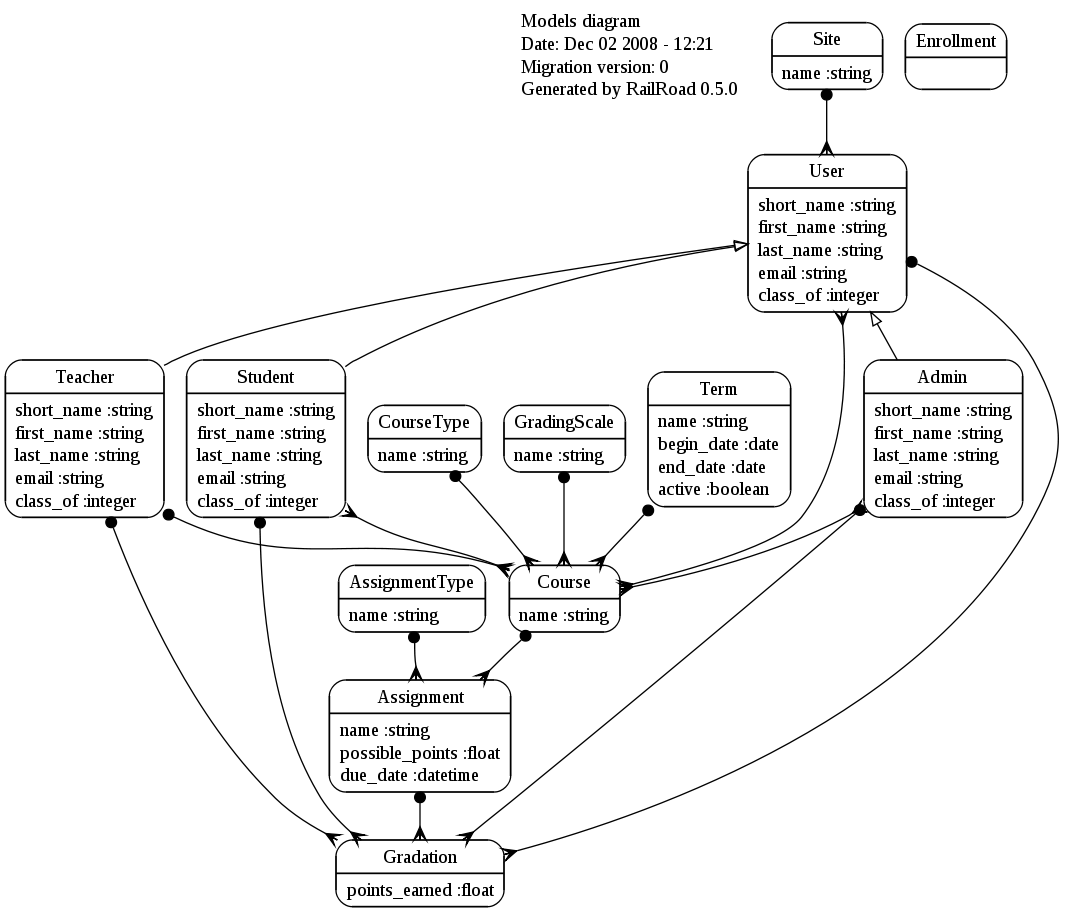
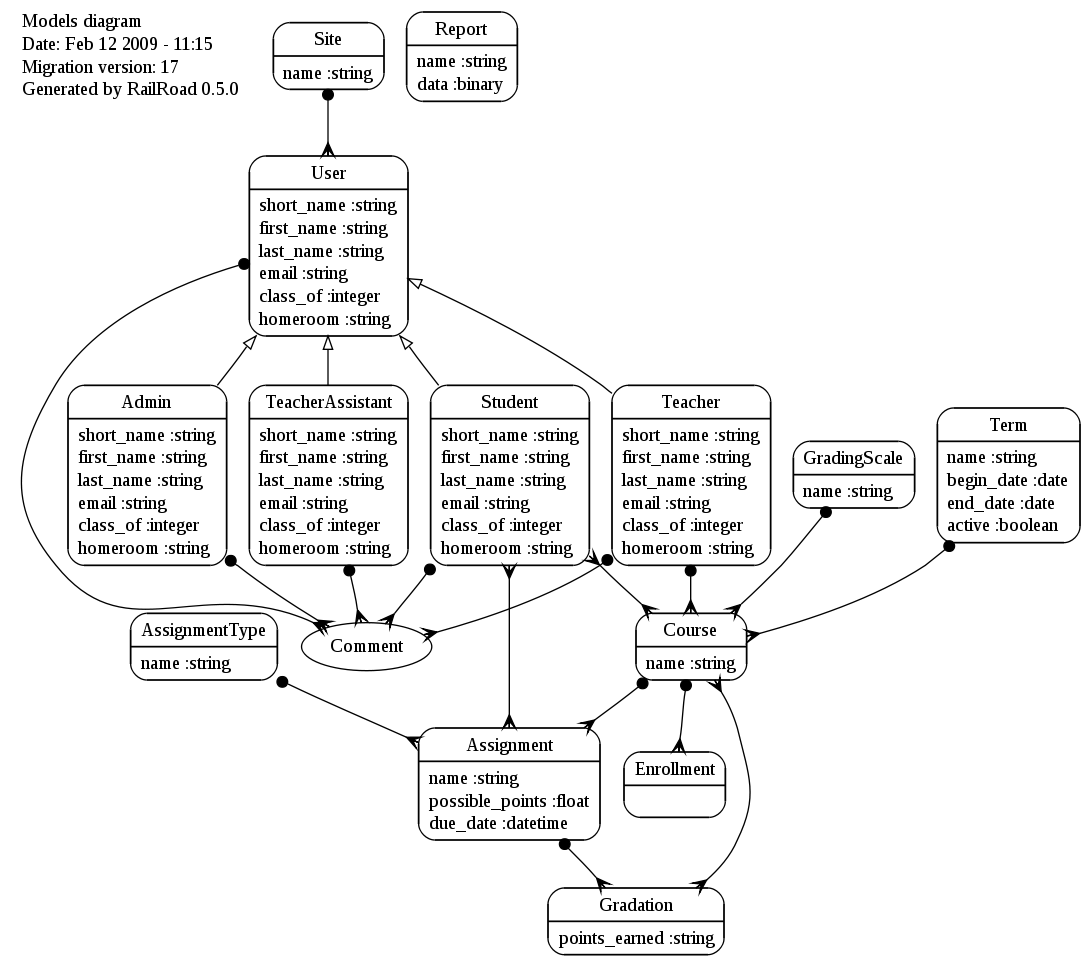
reworked the associations between student, gradation, assignment, and courses

diff --git a/lib/report_card.rb b/lib/report_card.rb
@@ -1,14 +1,49 @@
 class ReportCard
+	# This report will print a standard report card on LEGAL sized paper.  It can
+	# print a single student or an array of students (i.e. a whole class) and will
+	# separate each report into even number of pages so that duplex printing will
+	# be possible.
+	
 	def self.get_params()
 		# Build the parameter screen
-		params = <<-EOS
+		
+		# Allow the user to select a single student or multiple students.
+		students	= Student.find(:all)
+		homerooms	= Student.find_homerooms()
+		
+params = <<-EOS
 
 	<form action="/reports/report_card.pdf" method="get">
-		<label><span class='required'>Student ID</span>
-			<input class="input-text" id="student_id" name="student_id" size="30" type="text" value="343839479" />
-		</label>
-	
+		<label><span>Homeroom</span>
+		<select size='1' id="homeroom_id" name="homeroom_id">
+EOS
+
+		# List each homeroom
+		homerooms.each do |h|
+			params += "<option value='#{h}'>#{h}</option>"
+		end
 		
+params += <<-EOS
+		</select>
+		</label>
+
+		<label><span>&nbsp;</span>
+		 OR
+		</label>
+
+		<label><span>Student(s)</span>
+		<select multiple size="7" id="student_id" name="student_id">
+EOS
+
+		# List all of the students in the school
+		students.each do |s|
+			params += "<option value='#{s[:id]}'>#{s[:first_name]}</option>"
+		end
+				
+params += <<-EOS
+		</select>
+		</label>
+
 		<div class="spacer">
 			<input class="positive" name="commit" type="submit" value="Run Report" />
 		</div>
@@ -18,6 +53,14 @@ EOS
 	end
 
 	def self.draw(params)
+	
+	# Gather the required data from the database
+		# the user info
+		student = Student.find(params[:student_id], :include => :courses)
+		
+		# the courses they are enrolled in
+		# the assignments they were responsible for
+		# the grades for those assignments
 
 	# Create a new document
   pdf = Prawn::Document.new :page_size => "LEGAL", :skip_page_creation => false
@@ -89,7 +132,7 @@ EOS
 
 	# Print the grades for each class
 	course_counter = 0
-	courses = params[:courses].count
+	courses = 6
 	courses.times do
 		# We have limited space on the page so we can only print 3 sets of 
 		# grades on each page.  
@@ -104,7 +147,8 @@ EOS
 	mask(:y) {
 		# Print a class on the left side of the paper...
 		span(bounds.width/2, :position => :left) do
-			headers = ["#{params[:courses][course_counter][:name]}\n#{params[:courses][course_counter][:teacher_id]}", "1", "2", "3", "AVG"]
+#			headers = ["#{params[:courses][course_counter][:name]}\n#{params[:courses][course_counter][:teacher_id]}", "1", "2", "3", "AVG"]
+			headers = ["SPELLING/VOCABULARY\nMrs. S. Vowels", "1", "2", "3", "AVG"]
 			data = [
 				["\t\tApplication","A","B"," ","B"],
 				["\t\tTest/quizes","B","B"," ","B"],
@@ -158,7 +202,7 @@ EOS
 
 	start_new_page
 	cell [0,bounds.height-50], :width => bounds.width,
-		:text => params[:course].to_s
+		:text => 'YOMAMA'
 	
 end # instance_eval
 

diff --git a/app/models/gradation.rb b/app/models/gradation.rb
@@ -1,12 +1,13 @@
 class Gradation < ActiveRecord::Base
-	belongs_to :assignment
 	belongs_to :student
-
-	validates_existence_of :assignment
-#	validates_uniqueness_of :assignment_id, :scope => [:student_id]
+	belongs_to :assignment
 
 	validates_existence_of :student
+	validates_existence_of :assignment
+
+
 #	validates_uniqueness_of :student_id, :scope => [:assignment_id]
+#	validates_uniqueness_of :assignment_id, :scope => [:student_id]
 
 	validates_numericality_of	:points_earned, :allow_nil => :true, :greater_than_or_equal_to => 0.0
 	

diff --git a/lib/student_roster.rb b/lib/student_roster.rb
@@ -25,7 +25,7 @@ EOS
 		</label>
 			
 		<div class="spacer">
-			<input class="positive" name="commit" type="submit" value="Build Roster" />
+			<input class="positive" type="submit" value="Run Report" />
 		</div>
 	</form>
 EOS
@@ -42,7 +42,7 @@ def self.draw(params)
 	end	
 
 	# Create a new document
-  pdf = Prawn::Document.new (:skip_page_creation => true)
+  pdf = Prawn::Document.new (:skip_page_creation => true, :page => "LETTER")
 
 	# Make it so we don't have to use pdf. everywhere.  :)
 	pdf.instance_eval do

diff --git a/app/models/user.rb b/app/models/user.rb
@@ -1,8 +1,9 @@
 class User < ActiveRecord::Base
 	belongs_to	:site
-	has_many		:courses, :through => :enrollment
-	has_many		:gradations
+#	has_many		:gradations
 	has_many		:comments
+#	has_many		:courses, 		:through	=> :enrollment
+#	has_many		:assignments,	:through	=> :gradations
 	
 	validates_length_of			:first_name, :in => 1..20
 	validates_length_of			:last_name, :in => 1..20

diff --git a/app/models/student.rb b/app/models/student.rb
@@ -1,6 +1,12 @@
 class Student < User
-	has_many	:enrollments
-	has_many	:courses, :through => :enrollments
+	has_many		:enrollments
+	has_many		:gradations
+#	has_many		:comments
+	has_many		:courses, 		:through	=> :enrollments
+	has_many		:assignments,	:through	=> :gradations
+
+
+
 
 	validates_length_of	:homeroom, :maximum => 20
 	

diff --git a/app/models/enrollment.rb b/app/models/enrollment.rb
@@ -2,8 +2,8 @@ class Enrollment < ActiveRecord::Base
 	belongs_to :student
 	belongs_to :course
 
-	validates_existence_of	:course
 	validates_existence_of	:student
+	validates_existence_of	:course
 
 	validates_uniqueness_of :student_id, :scope =>  :course_id
 	
